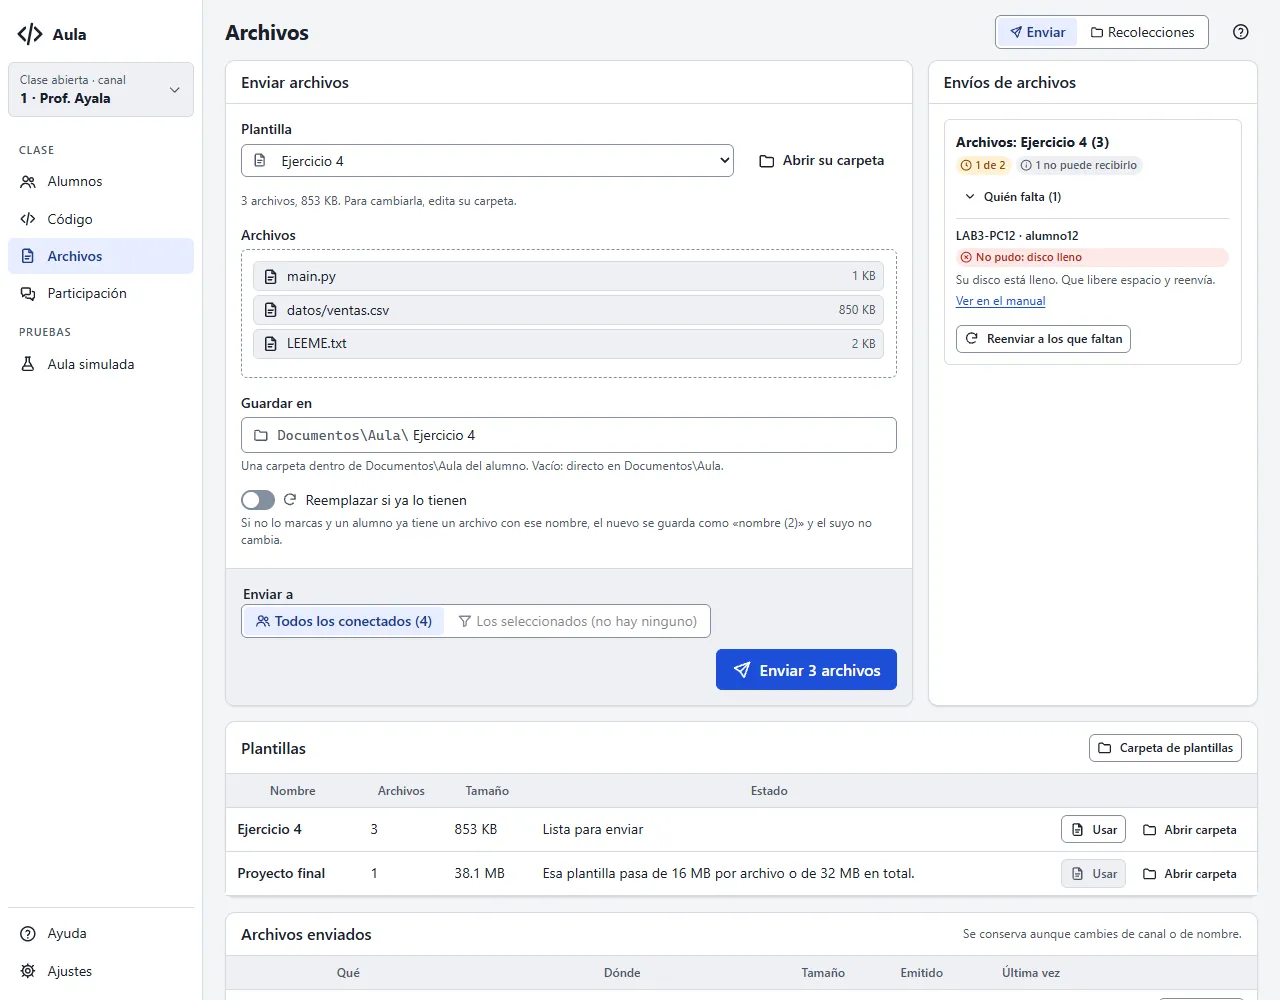
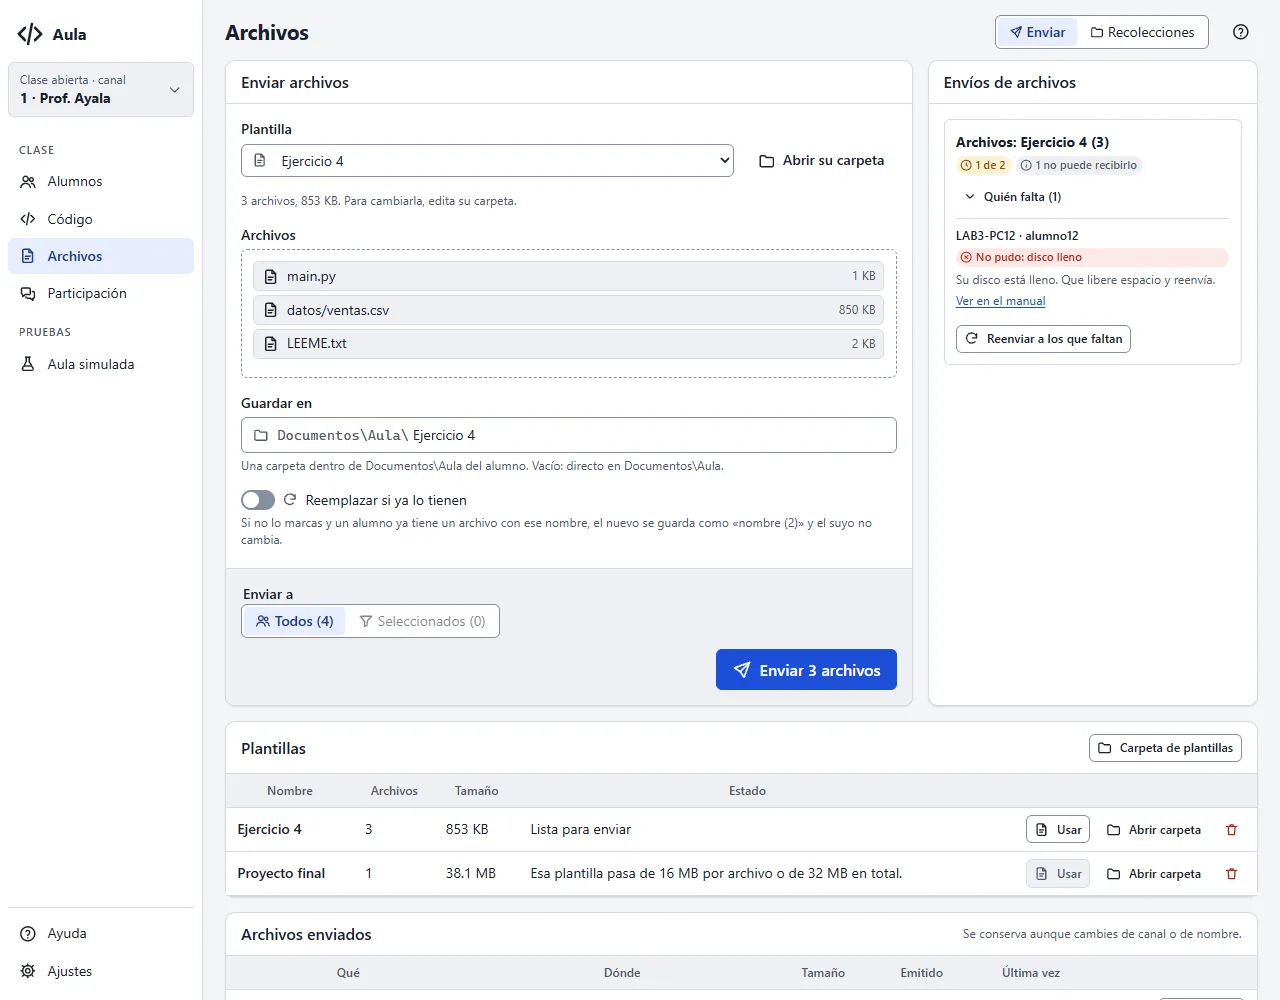
documentacion(docs): manual y casos del pie de envío, la «i» y eliminar plantillas
El manual nombra los botones nuevos de Código (Emitir, Agregar, Limpiar…, Pegar) y explica
eliminar una plantilla, con sus capturas. eventos-ui documenta DeleteTemplate. Casos C-102 a
C-104.

diff --git a/docs/eventos-ui.md b/docs/eventos-ui.md
@@ -221,7 +221,7 @@ interfaz ──App.StopBroadcast()──▶ screen.broadcast.stop a todos; la co
 | `aula:students` | `Students` | Un agente entra, sale, se queda mudo, confirma código, responde a una orden de energía (`power`) o manda un error del protocolo (`lastError`). |
 | `aula:history` | `History` | Tras cada emisión o reemisión. |
 | `aula:deliveries` | `Deliveries` | Tras cada envío, cada acuse (`code.ack`, `msg.ack`) y cada error con que un alumno contesta a un envío (`rejected`). |
-| `aula:capture` | `Capture` | Al pulsar el atajo global o «Pegar del portapapeles». |
+| `aula:capture` | `Capture` | Al pulsar el atajo global o «Pegar». |
 | `aula:class` | `View` | Al terminar el arranque automático en el canal predeterminado. Si falló, `active` es `false` y el motivo está en `Setup().startError`. |
 | `aula:frame` | `Thumb` | Por cada cuadro recibido mientras la vista de pantallas está abierta (≤ 1 por segundo y alumno). Solo cuadros del `screen.thumb.start` vigente. |
 | `aula:broadcast` | `BroadcastState` | La transmisión de tu pantalla empieza, termina o cambia su número de receptores. |
@@ -373,6 +373,7 @@ cada código tenga su enlace y que la sección exista.
 | `ResendFiles(sendId)` | `Delivery` / error | **Reenviar** de «Archivos enviados» en el Historial: a todos, leyendo los archivos otra vez. `Resend(deliveryId)` de un envío de archivos hace lo mismo solo con los que faltan. |
 | `SaveTemplate(name, files)` | `FilesView` / error | **Guardar como plantilla…**: copia los archivos a `Documentos\Aula\plantillas\<name>`. `templateExists`, `templateInvalid`. Emite `aula:files`. |
 | `OpenTemplates(name)` | error | Abre en el Explorador la carpeta de la plantilla `name`, o la de todas (`""`, se crea si falta). |
+| `DeleteTemplate(name)` | `FilesView` / error | **Eliminar** (la papelera de su fila, tras confirmar; nota de interfaz 16): borra solo la carpeta `Documentos\Aula\plantillas\<name>`, nunca algo fuera ni un enlace. Lo ya enviado sigue en el historial. `templateGone`, `templateInvalid`, `templateNotDeleted` (un archivo abierto en otro programa). Emite `aula:files`. |
 | `Collections()` | `CollectionsView` | La pestaña **Recolecciones** de Archivos. |
 | `OpenCollection({activity, patterns})` | `collect.Summary` / error | **Crear carpeta en los equipos**: con la fecha de hoy, manda `file.collect.open` a quien declaró `file.collect` (reales y simulados) y crea `Documentos\Aula\recolecciones\<fecha>\<actividad>` del profesor. `patterns` como lo escribió el profesor (`*.py, *.txt`). Quien se conecta después recibe la carpeta al llegar. Errores: `collectActivity`, `collectFolder`. |
 | `Collect(id, keys)` | `collect.Summary` / error | **Recoger** (`keys` vacío: todos los conectados que pueden), **Recoger a los que faltan** o **Recoger otra vez** de un alumno (`keys` = sus `key`). Pide una ronda nueva, de 4 en 4; el avance llega en `aula:collections`. Errores: `collectGone`, `collectNoStudents`. |

diff --git a/docs/desarrollo/probar-consola-local.md b/docs/desarrollo/probar-consola-local.md
@@ -217,6 +217,14 @@ fuente y otro como receptor, ambos con Windows. El aula simulada abierta sirve p
 | C-93 | Con el aula simulada abierta, abre la pantalla en grande y la ficha de un alumno simulado | En la pantalla en grande no aparece **Proyectar a la clase**; en la ficha, «Qué puede hacer su equipo» dice «Mostrar su pantalla a la clase: no» y «Ver la pantalla de un compañero: no». Al proyectar a un real, los simulados no reciben nada. A 900×600 y en oscuro la franja y la Pantalla grande se leen completas |
 | C-94 | Proyectando, desconecta la fuente (cierra su agente o su red); luego vuelve a proyectar y cierra la clase | «<equipo> se desconectó»; la vista del receptor se cierra. Al cerrar la clase, la franja se va y el receptor vuelve a su vista de código |
 
+### Notas de interfaz 014–016 (2026-11-12)
+
+| # | Pasos | Esperado |
+|---|---|---|
+| C-102 | Código: mira el pie del editor; pasa el mouse (y luego Tab) por cada botón | «Enviar a: Todos (n) · Seleccionados (n)»; una sola fila del mismo alto: **Emitir** (principal), **Agregar**, **Limpiar…** (en rojo), **Pegar**. Cada uno explica qué hace en un tooltip, también con el teclado. A 900×600 y en oscuro no se desacomodan |
+| C-103 | Ficha de un alumno › la «i» de «Qué puede hacer su equipo»; luego la «i» del canal en Ajustes y la del instalador en «¿Falta un alumno?» | La explicación sale en un globo flotante **encima** de la «i», con su flecha y «Más en el manual», sin mover nada; cerca del borde de arriba se abre abajo, y nunca se sale por los lados. Esc o un clic afuera lo cierran |
+| C-104 | Archivos › Plantillas: la papelera de una plantilla; **Volver**; otra vez y **Eliminar**. Repite con un archivo de otra plantilla abierto en Excel | Pide confirmar («Se borra su carpeta… Lo que ya enviaste no cambia»). Con **Volver** no pasa nada; con **Eliminar** desaparece de la tabla y su carpeta de `Documentos\Aula\plantillas`, y el envío sigue en «Archivos enviados». Con un archivo abierto: «No se pudo eliminar la plantilla» con qué hacer |
+
 ### Mostrar mi pantalla: a quién y en qué modo (v0.15)
 
 Con dos alumnos reales con Windows (VM o `-directo`) y el aula simulada abierta. Los A-37 a A-41

diff --git a/docs/v1/administracion/codigo.md b/docs/v1/administracion/codigo.md
@@ -17,7 +17,7 @@ Aquí preparas el código que verán tus alumnos y sigues quién ya lo tiene en 
 Escribe o pega tu código. Arriba eliges el **lenguaje** (para los colores) y un **título**
 opcional. Cada envío es un ejercicio numerado: Ejercicio 1, 2, 3…
 
-Para traer código de otro programa, cópialo (Ctrl+C) y pulsa **Pegar del portapapeles**. También
+Para traer código de otro programa, cópialo (Ctrl+C) y pulsa **Pegar**. También
 funciona con el atajo de teclado desde cualquier programa (lo ves en
 [Ajustes](ajustes#acerca-de)).
 
@@ -26,15 +26,18 @@ funciona con el atajo de teclado desde cualquier programa (lo ves en
 
 ## Enviar
 
-- **Emitir (reemplaza lo que ven)**: los alumnos ven solo este código.
-- **Agregar debajo de lo que ven**: se suma a lo que ya tienen.
-- **Limpiar pantallas**: borra el código que ven en Aula (lo que copiaron a su editor no se
-  toca). Pide confirmación.
+Los botones van en una fila; al pasar el mouse, cada uno explica qué hace.
 
-En **Enviar a** eliges a todos los conectados o solo a los que seleccionaste en
-[Alumnos](alumnos#seleccionar-alumnos).
+- **Emitir**: reemplaza lo que ven; los alumnos ven solo este código.
+- **Agregar**: lo agrega debajo de lo que ya tienen, sin borrar nada.
+- **Limpiar…**: borra el código que ven en Aula (lo que copiaron a su editor no se toca). Pide
+  confirmación.
+- **Pegar**: carga en el editor lo que copiaste.
 
-Si el código pasa de 256 KiB, divídelo en partes y envíalas con «Agregar debajo de lo que ven».
+En **Enviar a** eliges **Todos** (los conectados) o **Seleccionados** (los que marcaste en
+[Alumnos](alumnos#seleccionar-alumnos)); entre paréntesis, cuántos son.
+
+Si el código pasa de 256 KiB, divídelo en partes y envíalas con **Agregar**.
 
 ## Últimos envíos
 

diff --git a/docs/v1/administracion/archivos.md b/docs/v1/administracion/archivos.md
@@ -47,6 +47,9 @@ clases.
 - En la tabla **Plantillas**, **Usar** la carga arriba para enviarla y **Abrir carpeta** la abre en
   el Explorador: ahí agregas, quitas o cambias archivos, también en subcarpetas. **Carpeta de
   plantillas** abre la de todas.
+- La papelera de su fila la **elimina**, después de confirmar: se borra su carpeta, con sus
+  archivos. Lo que ya enviaste no cambia y sigue en **Archivos enviados**. Si Windows no la deja
+  borrar, cierra sus archivos abiertos en otro programa y vuelve a intentarlo.
 - Al elegir una plantilla, su nombre se propone como carpeta de destino.
 
 Si una plantilla tiene más de 20 archivos, pasa del tamaño o tiene un nombre que Windows no acepta,

diff --git a/docs/v1/administracion/primeros-pasos.md b/docs/v1/administracion/primeros-pasos.md
@@ -36,9 +36,9 @@ consola abre dos alumnos de prueba para que veas todo funcionando. Más en
 
 1. Ve a **Código** en el menú.
 2. Escribe o pega tu código en el editor. También puedes copiarlo en otro programa y pulsar
-   **Pegar del portapapeles**.
+   **Pegar**.
 3. Revisa el lenguaje y, si quieres, ponle un título.
-4. Pulsa **Emitir (reemplaza lo que ven)**.
+4. Pulsa **Emitir** (reemplaza lo que ven).
 
 Los alumnos lo ven al instante, con colores y un botón para copiarlo.
 

diff --git a/docs/v1/administracion/solucion-de-problemas.md b/docs/v1/administracion/solucion-de-problemas.md
@@ -100,7 +100,7 @@ franja «Este equipo no tiene la clave del centro», pide que la instalen en tu 
 
 ## El portapapeles no funciona
 
-Si «Pegar del portapapeles» dice que no hay texto copiado, copia el código con Ctrl+C y vuelve a
+Si «Pegar» dice que no hay texto copiado, copia el código con Ctrl+C y vuelve a
 intentarlo. Si dice que no puede leer el portapapeles, pega el código en el editor con Ctrl+V.
 Aula envía hasta 256 KiB por envío.
 
